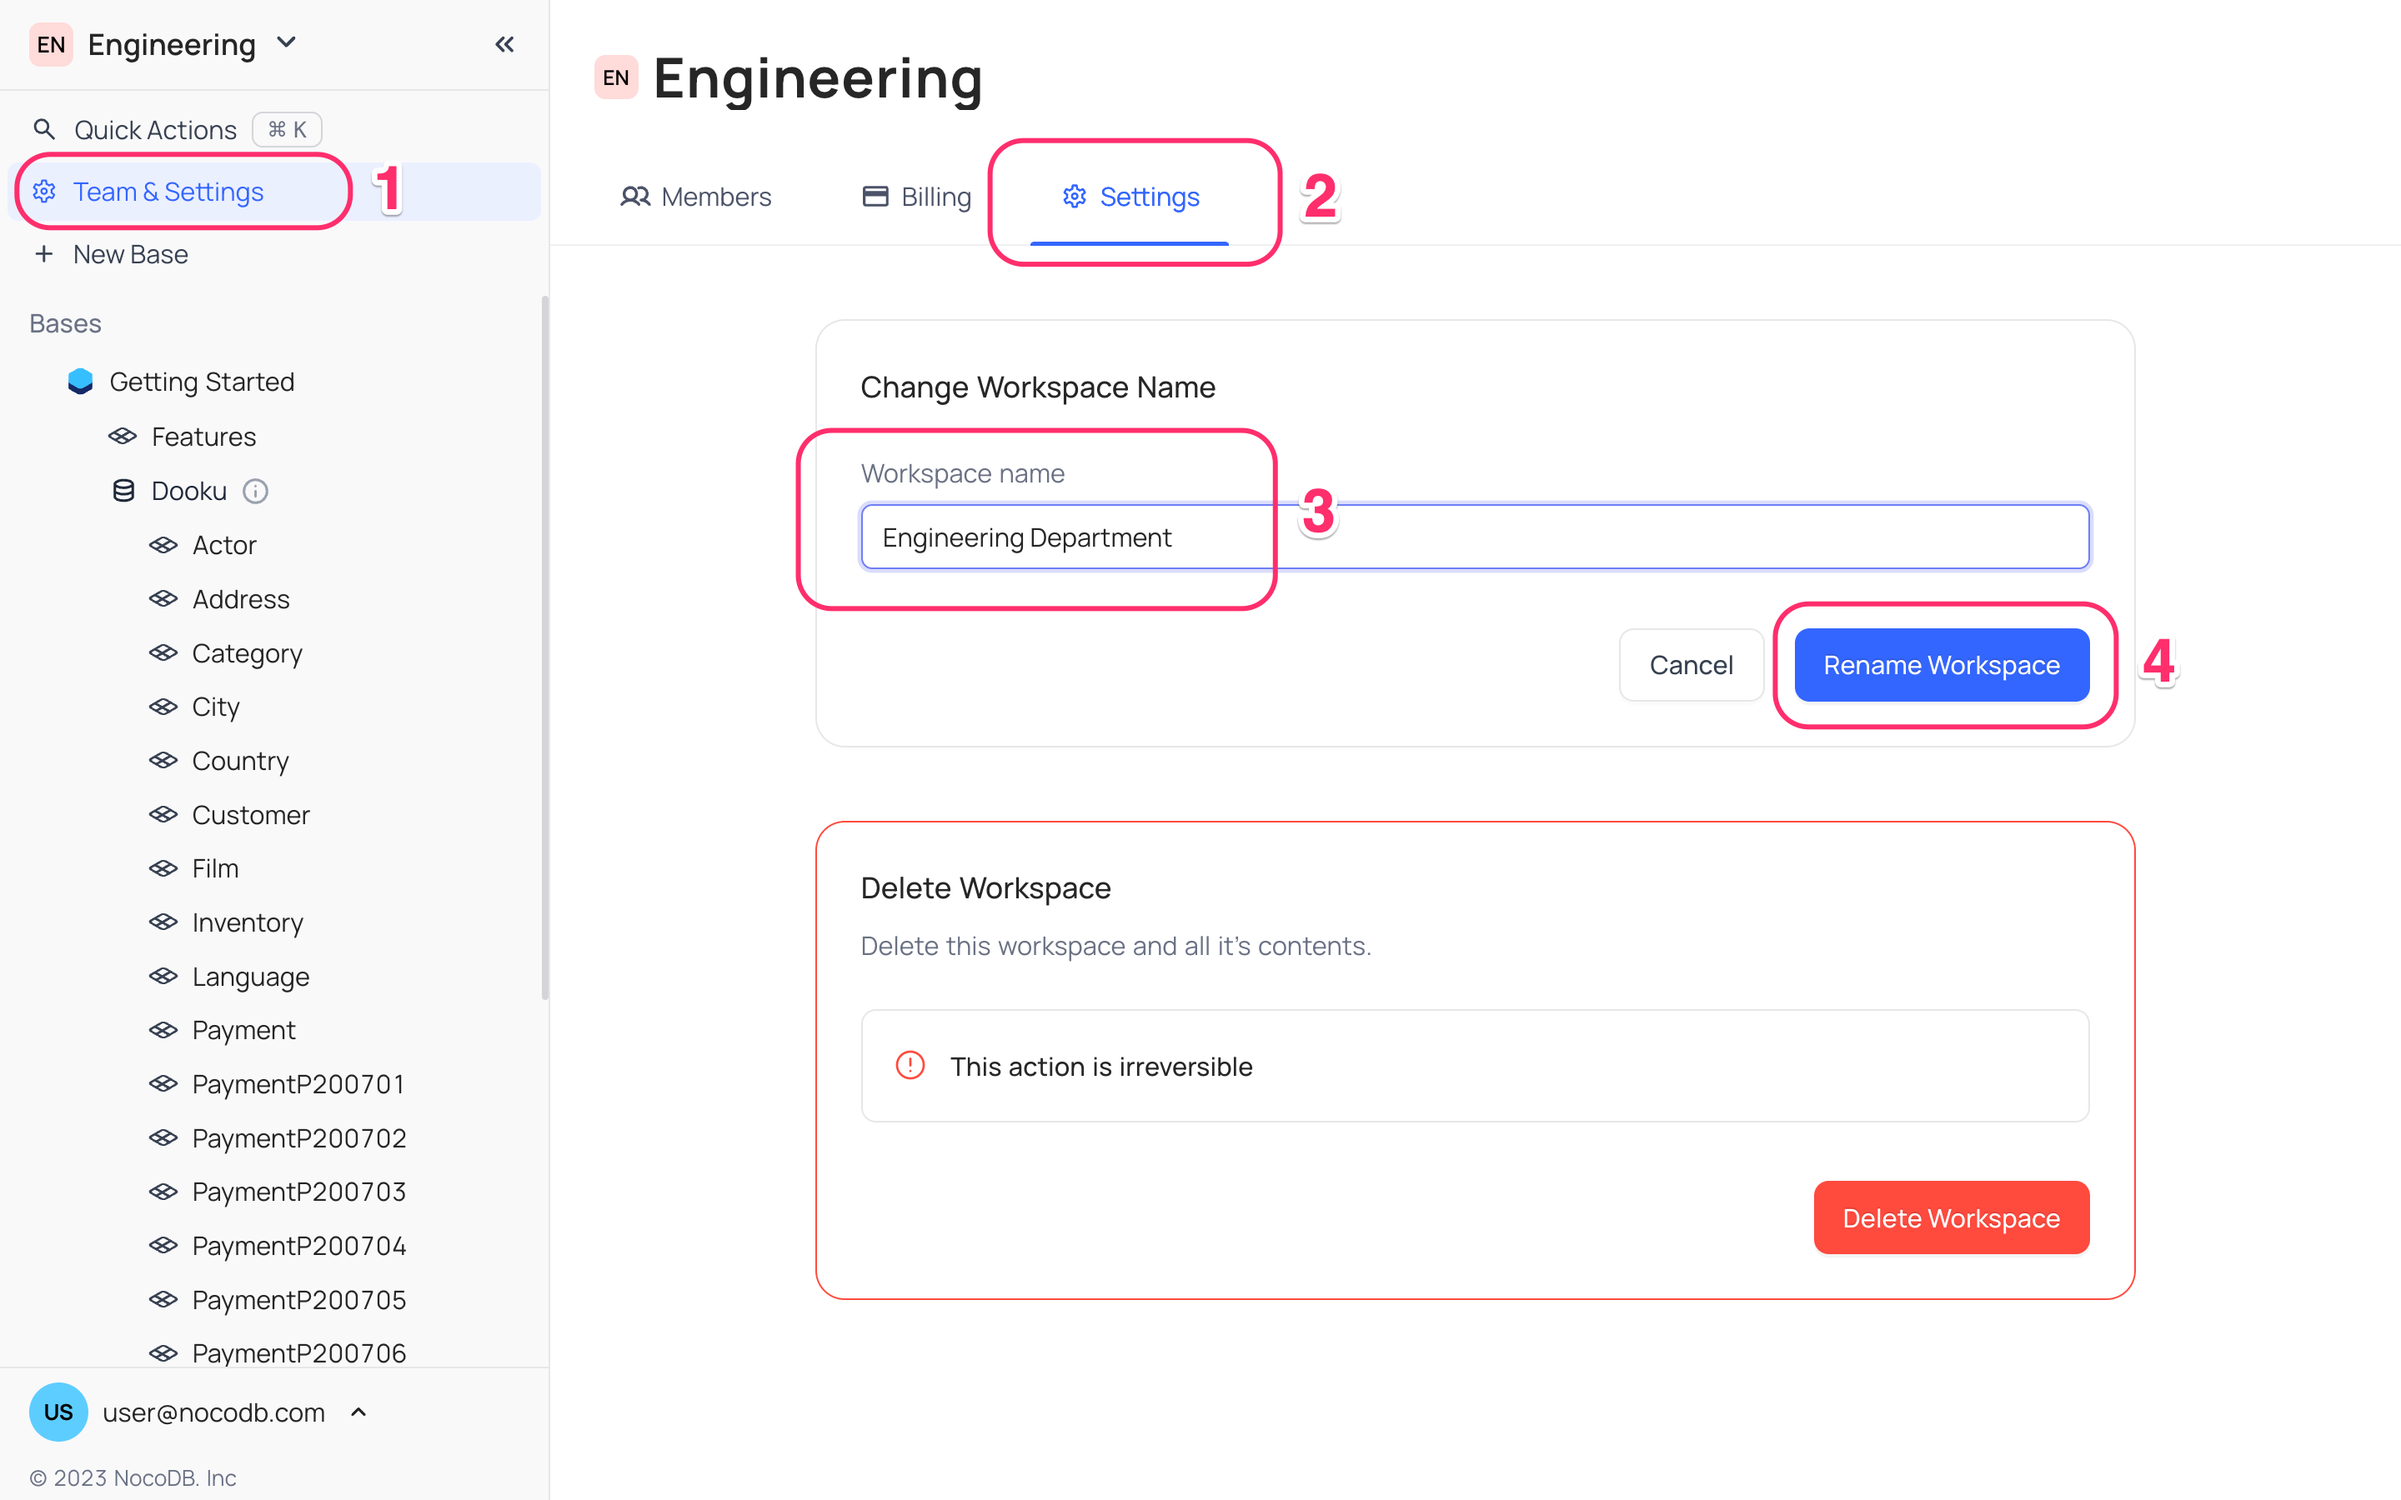
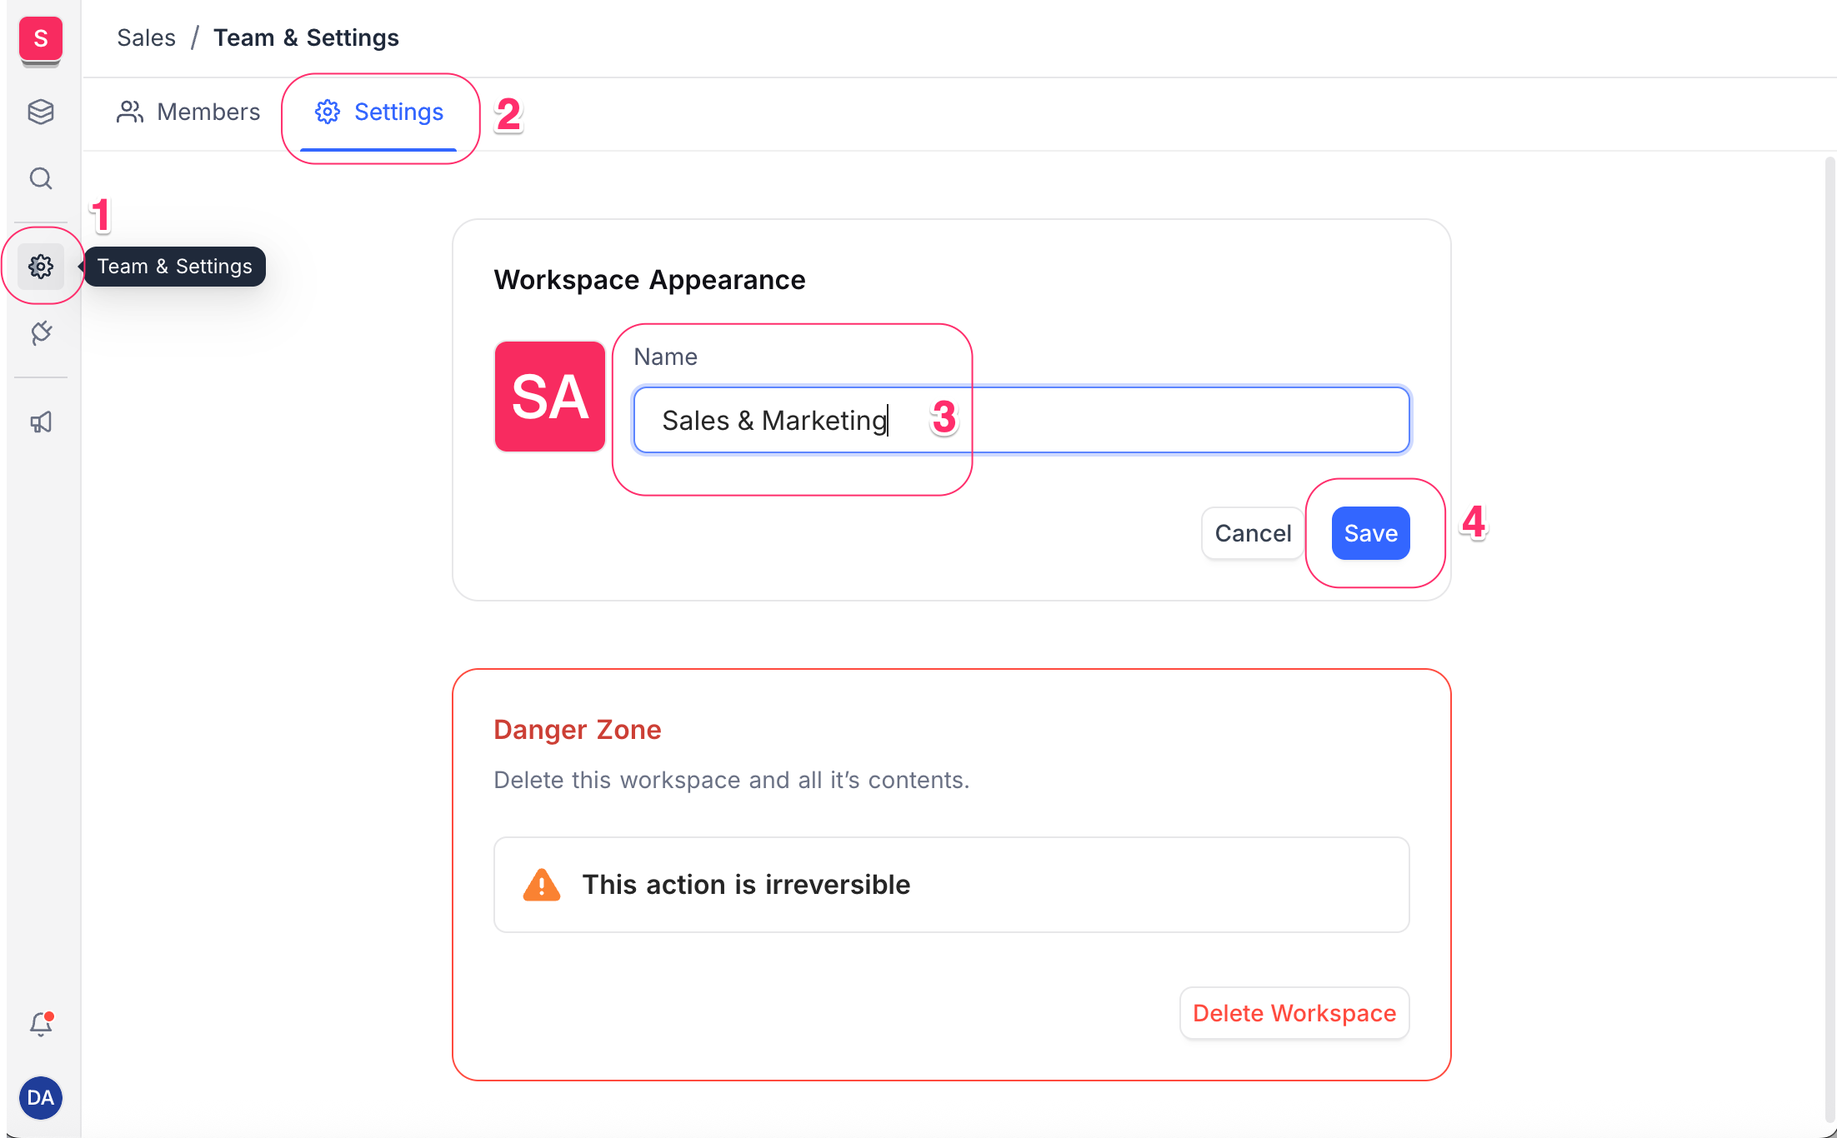
docs: actions on workspace

diff --git a/packages/noco-docs/docs/030.workspaces/040.actions-on-workspace.md b/packages/noco-docs/docs/030.workspaces/040.actions-on-workspace.md
@@ -10,10 +10,10 @@ keywords: ['Workspace configuration', 'Rename workspace', 'Delete workspace', 'W
 
 To update the workspace name:
 
-1. Navigate to the `Team & Settings` option in the left sidebar to access the Workspace configuration page.
+1. Navigate to the `Team & Settings` option in the left minibar to access the Workspace configuration page.
 2. Select the `Settings` tab.
-3. Enter the new desired workspace name in the `Workspace Name` field.
-4. Confirm the change by clicking on the `Rename Workspace` button.
+3. Enter the new desired workspace name in the `Name` field.
+4. Confirm the change by clicking on the `Save` button.
 
 ![image](/img/v2/workspace/workspace-rename.png)
 
@@ -30,7 +30,7 @@ Only **workspace owner** can delete a workspace.
 
 To remove a workspace:
 
-1. Open the Workspace configuration page by selecting `Team & Settings` from the left sidebar.
+1. Open the Workspace configuration page by selecting `Team & Settings` from the left minibar.
 2. Access the `Settings` tab.
 3. Click on the `Delete Workspace` button.
 4. Provide the workspace name as confirmation for deletion.
